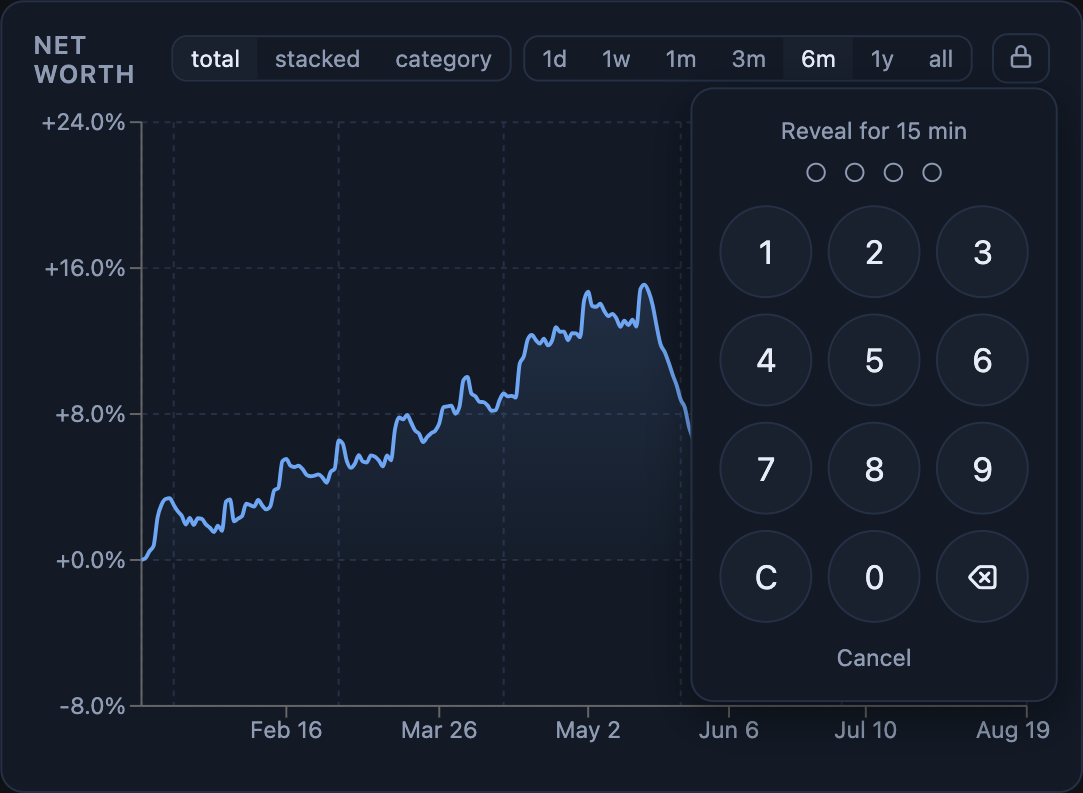
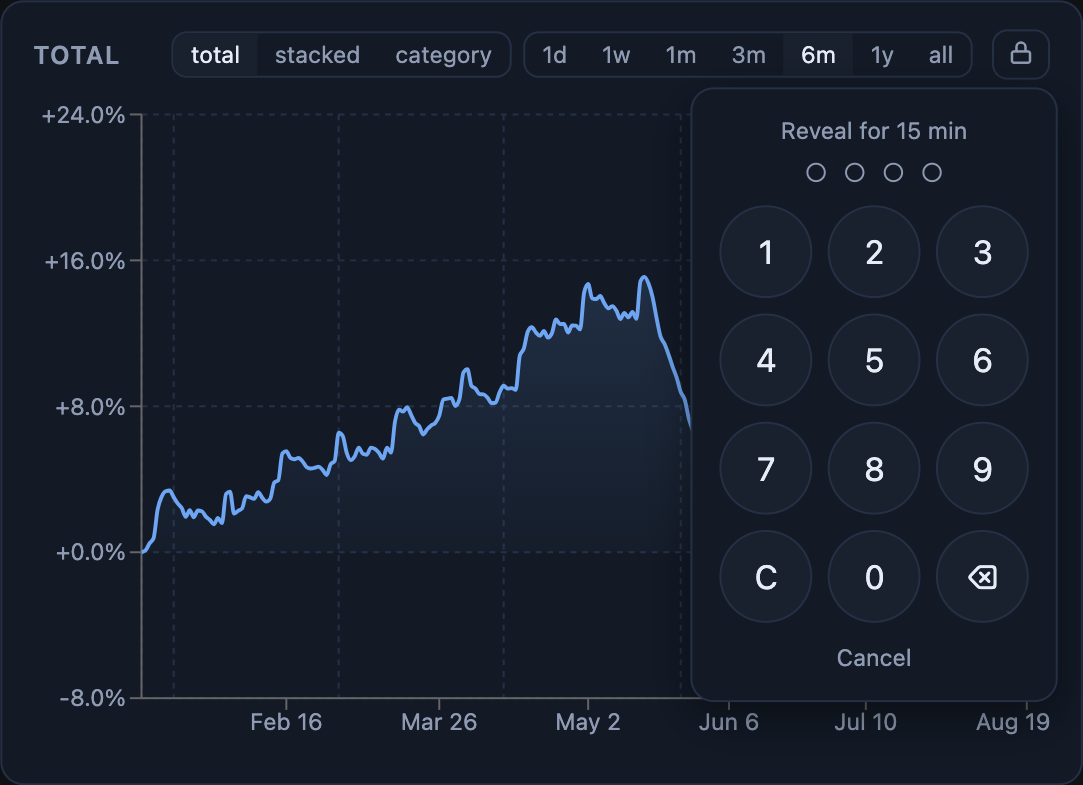
Drop "Net worth" from screenshots and copy — titles say Total
Matches the app-wide retitle: it tracks account balances, not
physical assets, so nothing should read as full net-worth tracking.
Recaptured the three affected demo shots.

diff --git a/README.md b/README.md
@@ -39,7 +39,7 @@ Amounts are redacted **server-side, before they leave your netboi deployment**, 
 
 All cards share these options: `entry` (which netboi connection), `title`, `theme: netboi | ha`, `auto_conceal_minutes`.
 
-### Worth chart — `netboi-worth-card`
+### Total over time — `netboi-worth-card`
 
 The dashboard chart with the web app's views (day-to-day / investments / everything) and modes.
 
@@ -83,7 +83,7 @@ One big number and its change over the window. Censored, the number is masked bu
 type: custom:netboi-stat-card
 view: all
 range: 1m
-title: Net worth
+title: Total
 ```
 
 ### Accounts — `netboi-accounts-card`
@@ -111,7 +111,7 @@ automation:
     action:
       - action: notify.mobile_app_phone
         data:
-          message: "net worth down {{ states('sensor.netboi_total_change_week') }}% this week"
+          message: "balances down {{ states('sensor.netboi_total_change_week') }}% this week"
 ```
 
 ## Services
